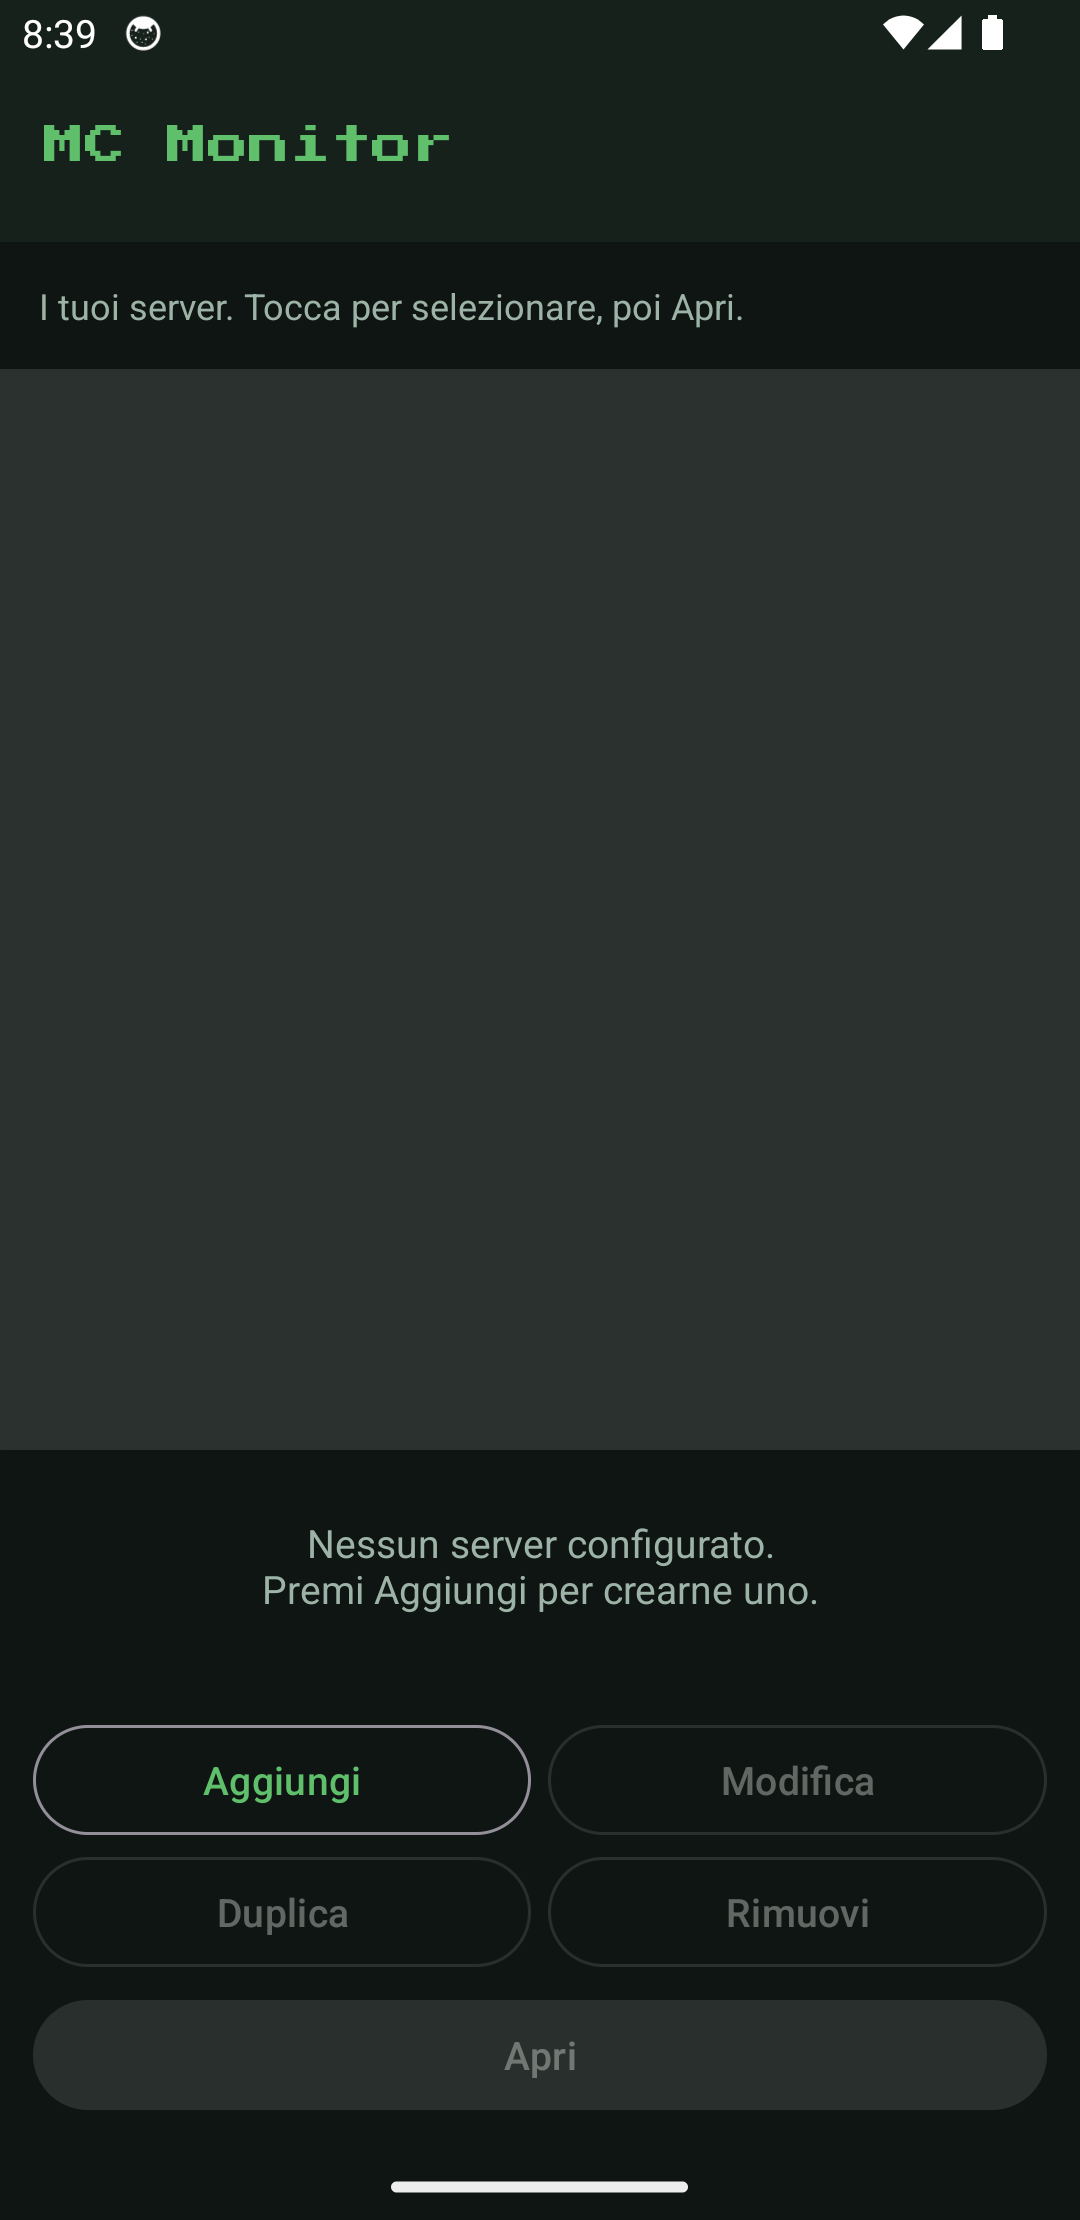
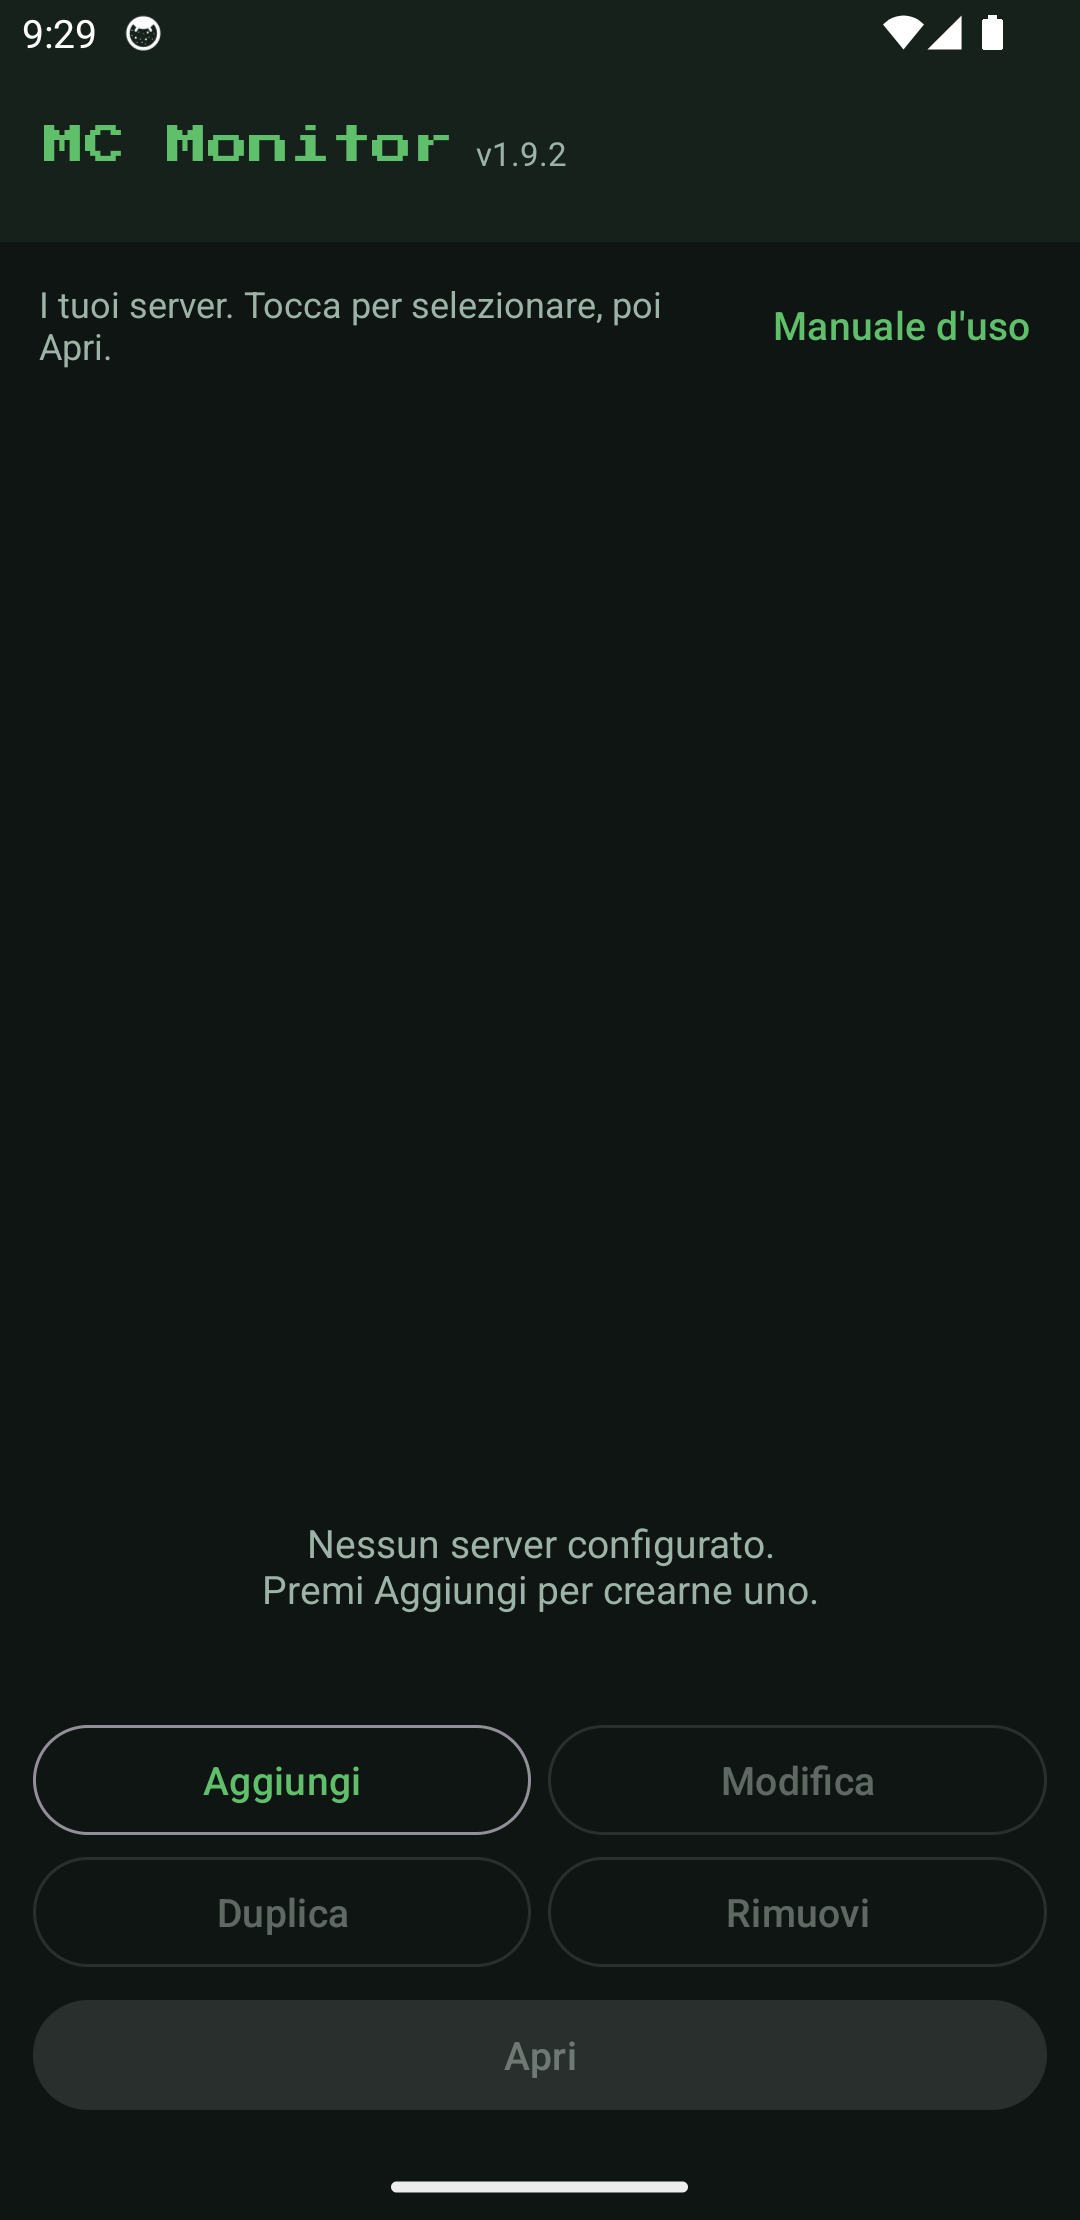
Versione accanto al nome e link al manuale nella schermata principale
La versione installata compare di fianco al titolo in entrambe le schermate:
serve a capire al volo se il banner di aggiornamento ha senso.

diff --git a/app/src/main/java/com/bellizia/mcmonitor/ui/ServersActivity.kt b/app/src/main/java/com/bellizia/mcmonitor/ui/ServersActivity.kt
@@ -1,6 +1,7 @@
 package com.bellizia.mcmonitor.ui
 
 import android.content.Intent
+import android.net.Uri
 import android.os.Bundle
 import androidx.appcompat.app.AppCompatActivity
 import androidx.core.view.ViewCompat
@@ -14,6 +15,7 @@ import com.bellizia.mcmonitor.databinding.ActivityServersBinding
 import com.bellizia.mcmonitor.databinding.ItemServerBinding
 import com.bellizia.mcmonitor.rcon.RconManager
 import com.bellizia.mcmonitor.ssh.SshManager
+import com.bellizia.mcmonitor.update.UpdateChecker
 import com.google.android.material.dialog.MaterialAlertDialogBuilder
 
 /**
@@ -21,6 +23,10 @@ import com.google.android.material.dialog.MaterialAlertDialogBuilder
  * Aprirne uno lo rende il server attivo per tutto il resto dell'app.
  */
 class ServersActivity : AppCompatActivity() {
+
+    private companion object {
+        const val MANUAL_URL = "https://github.com/bdbais/mc-monitor/blob/main/MANUALE.md"
+    }
 
     private lateinit var binding: ActivityServersBinding
     private var selectedId: String = ""
@@ -33,9 +39,11 @@ class ServersActivity : AppCompatActivity() {
         supportActionBar?.setDisplayShowTitleEnabled(false)
         applyInsets()
 
+        binding.version.text = "v${UpdateChecker.currentVersion(this)}"
         UpdateBanner.attach(this, binding.updateBanner)
         selectedId = Prefs.activeId().ifBlank { Prefs.servers().firstOrNull()?.id.orEmpty() }
 
+        binding.btnManual.setOnClickListener { openManual() }
         binding.btnAdd.setOnClickListener { addServer() }
         binding.btnEdit.setOnClickListener { withSelection { open(it, editing = true) } }
         binding.btnOpen.setOnClickListener { withSelection { open(it, editing = false) } }
@@ -91,6 +99,13 @@ class ServersActivity : AppCompatActivity() {
         binding.btnOpen.isEnabled = hasSelection
         binding.btnClone.isEnabled = hasSelection
         binding.btnRemove.isEnabled = hasSelection
+    }
+
+    /** Il manuale sta nel repository: si apre nel browser, sempre aggiornato. */
+    private fun openManual() {
+        val intent = Intent(Intent.ACTION_VIEW, Uri.parse(MANUAL_URL))
+        runCatching { startActivity(intent) }
+            .onFailure { toastShort("Nessuna app per aprire i collegamenti") }
     }
 
     private fun addServer() {

diff --git a/app/src/main/java/com/bellizia/mcmonitor/MainActivity.kt b/app/src/main/java/com/bellizia/mcmonitor/MainActivity.kt
@@ -18,6 +18,7 @@ import com.bellizia.mcmonitor.ui.PlayersFragment
 import com.bellizia.mcmonitor.ui.SettingsFragment
 import com.bellizia.mcmonitor.ui.StatusFragment
 import com.bellizia.mcmonitor.ui.UpdateBanner
+import com.bellizia.mcmonitor.update.UpdateChecker
 import com.google.android.material.tabs.TabLayoutMediator
 
 class MainActivity : AppCompatActivity() {
@@ -58,6 +59,7 @@ class MainActivity : AppCompatActivity() {
         }.attach()
 
         binding.toolbar.setNavigationOnClickListener { finish() }
+        binding.version.text = "v${UpdateChecker.currentVersion(this)}"
         UpdateBanner.attach(this, binding.updateBanner)
 
         // Si parte dalle Impostazioni quando si arriva da "Modifica" o quando la

diff --git a/README.md b/README.md
@@ -2,7 +2,7 @@
 
 App Android per gestire un server Minecraft installato con **LinuxGSM**, via **SSH**.
 
-APK pronto all'uso: **`MC-Monitor-1.9.1.apk`** (firmato, `minSdk 26` / Android 8+, `targetSdk 35`).
+APK pronto all'uso: **`MC-Monitor-1.9.2.apk`** (firmato, `minSdk 26` / Android 8+, `targetSdk 35`).
 
 **[Manuale d'uso completo](MANUALE.md)** · [Release e APK](https://github.com/bdbais/mc-monitor/releases)
 
